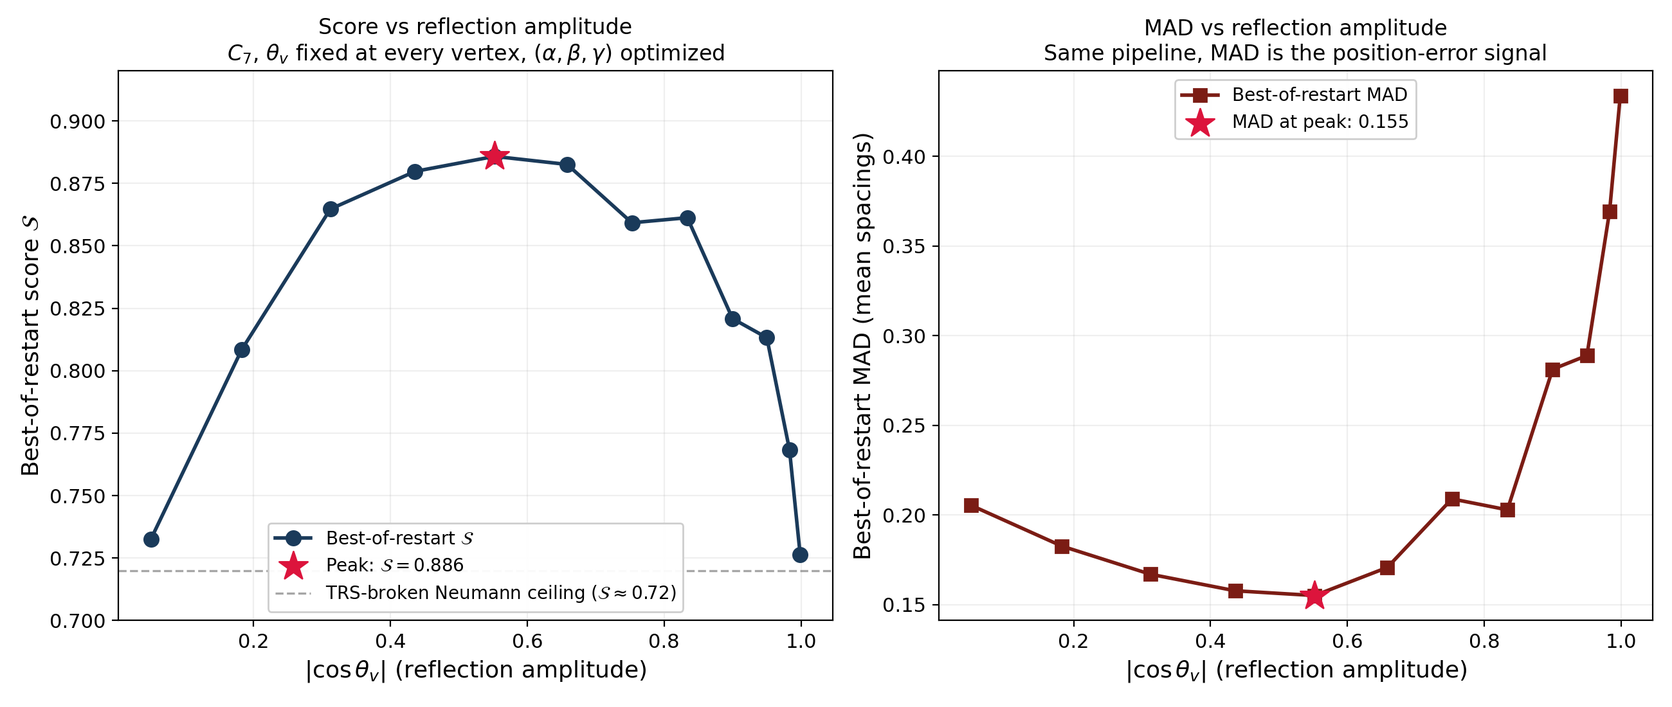
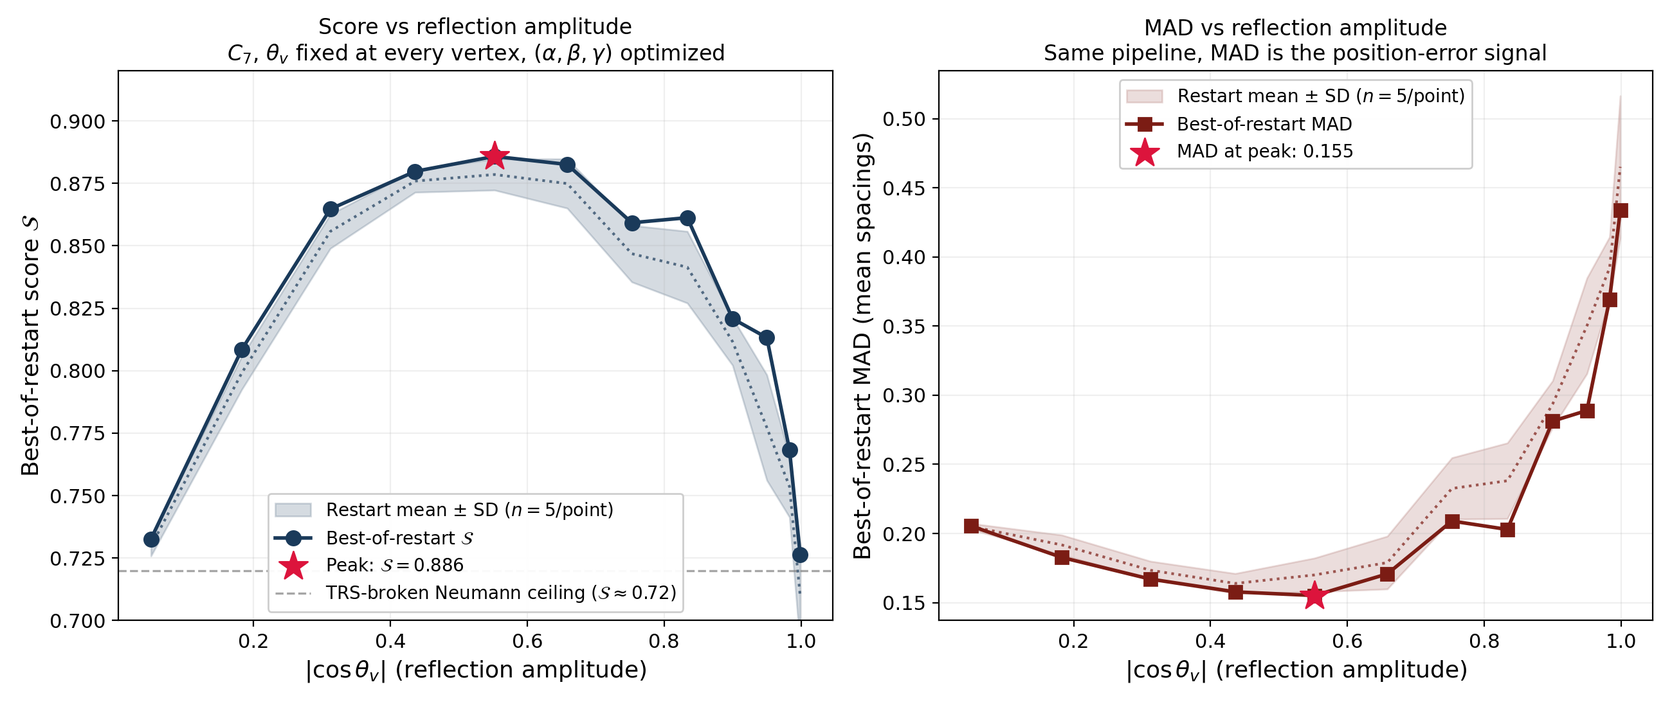
fix: address peer-review P1 items (eigenvalue-finding spec, pair-corr normalization, restart counts, exact MW, null baseline, Figure 5 error bands)
Third peer review (7.9/10, Major Revisions) flagged Methods
reproducibility and inference framing as the remaining barriers. This
commit addresses the P1 items in that list.

* Methods 2.1: eigenvalue-finding algorithm fully specified —
  [1e-6, k_max] sampling with k_max = max((N+5)pi/L, 10), three-point
  strict-interior minimum detection, SciPy bounded Brent refinement of
  |det[I - S*U(k)]|, acceptance threshold 1e-4, implicit dedup via the
  three-point rule.

* Methods 2.2: pair-correlation normalization spelled out —
  unordered i<j pairs on (0, 3], 50 bins of width 0.06, histograms
  self-normalized to unit total mass; R_2^GUE(r) = 1 - (sin(pi r)/(pi r))^2
  discretized on the same grid and normalized identically.

* Methods 2.2: null-distribution baseline documented — S = 0.144 was
  computed at a single reference seed; the full null across 100
  independent seeds is S = 0.21 +/- 0.09 (mean +/- SD), median 0.19,
  range [0.05, 0.53]. All optimized scores in the paper lie well above
  the null distribution's upper tail.

* Methods 2.2: matching-window equivalence — because every optimization
  on both distributions matches 100/100 targets, greedy sorted matching
  coincides with the optimal-cost assignment on ordered sequences; the
  reported MAD is invariant under alternative one-to-one window-respecting
  pairings.

* Methods 2.4 + Table 1: restart-count policy reconciled. Table 1
  now shows per-experiment restart counts explicitly (5 per unit for
[…]

diff --git a/Primes_in_the_Wires_v3.tex b/Primes_in_the_Wires_v3.tex
@@ -53,7 +53,7 @@
 \end{aug}
 
 \begin{abstract}
-Under standard Neumann boundary conditions, the cycle graph $C_n$ is spectrally equivalent to a single circle of circumference $L = \sum_e l_e$ with spectrum $k_m = 2\pi m / L$, independent of $n$; the correspondence score against any target collapses to a one-parameter family in $L$ (Theorem~\ref{thm:neumann}). Per-vertex TRS-breaking phases, which preserve reflectionlessness, enlarge this to a two-parameter family $(L, \Phi)$ with empirical ceiling $\mathcal{S} \approx 0.72$ at $N = 100$ Riemann zeros. Replacing Neumann with general U(2) vertex scattering, in which the reflection amplitude $|\cos\theta_v|$ becomes free, breaks this ceiling: the identical CMA-ES + Nelder--Mead pipeline reproducibly reaches MAD $= 0.148 \pm 0.006$ mean spacings on $C_7$ across $K_R = 30$ independent restart seeds (best single value $0.097$ observed on $C_{20}$ at a narrow local optimum; Section~\ref{sec:results-scaling}). Replacing the cycle by a theta graph at matched parameter count yields correspondence within $\pm 0.01$ in best-of-restart $\mathcal{S}$ across the tested parameter counts up to $96$ dimensions, indicating that the relevant degree of freedom is the dimension of the vertex unitary group, not the graph topology. The same pipeline against $K = 50$ independent GUE surrogate targets unfolded to the Riemann--von Mangoldt smooth density yields MAD $= 0.260 \pm 0.036$ mean spacings, with no overlap between the Riemann-seed and surrogate distributions (two-sided Mann--Whitney $U = 0$, $p \approx 9.4 \times 10^{-14}$). A reflection-magnitude ablation at fixed $\theta_v$ with the remaining three U(2) phases per vertex freely optimized yields an inverted-U curve peaking at $|\cos\theta_v| \approx 0.55$ with $\mathcal{S} = 0.886$; both the fully-reflecting and reflectionless extremes collapse to $\mathcal{S} \approx 0.73$, confirming the reflection-magnitude mechanism of Remark~\ref{rem:reflection} while identifying an optimal reflection amplitude in the middle of its range. The construction is not a generic GUE-density fitter; it finds structure specific to the Riemann zeros.
+We measure spectral correspondence by a composite score $\mathcal{S} \in [0, 1]$ (higher is better; weighted from positional accuracy, GUE-spacing statistics, and pair correlation) and by the mean absolute deviation MAD of matched eigenvalue--target residuals, reported in units of the local mean zero spacing (``mean spacings''). Under standard Neumann boundary conditions, the cycle graph $C_n$ is spectrally equivalent to a single circle of circumference $L = \sum_e l_e$ with spectrum $k_m = 2\pi m / L$, independent of $n$; the correspondence score against any target collapses to a one-parameter family in $L$ (Theorem~\ref{thm:neumann}). Per-vertex TRS-breaking phases, which preserve reflectionlessness, enlarge this to a two-parameter family $(L, \Phi)$ with empirical ceiling $\mathcal{S} \approx 0.72$ at $N = 100$ Riemann zeros. Replacing Neumann with general U(2) vertex scattering, in which the reflection amplitude $|\cos\theta_v|$ becomes free, breaks this ceiling: the identical CMA-ES + Nelder--Mead pipeline reproducibly reaches MAD $= 0.148 \pm 0.006$ mean spacings on $C_7$ across $K_R = 30$ independent restart seeds (best single value $0.097$ observed on $C_{20}$ at a narrow local optimum; Section~\ref{sec:results-scaling}). Replacing the cycle by a theta graph at matched parameter count yields correspondence within $\pm 0.01$ in best-of-restart $\mathcal{S}$ across the tested parameter counts up to $96$ dimensions, indicating that the relevant degree of freedom is the dimension of the vertex unitary group, not the graph topology. The same pipeline against $K = 50$ independent GUE surrogate targets unfolded to the Riemann--von Mangoldt smooth density yields MAD $= 0.260 \pm 0.036$ mean spacings, with no overlap between the Riemann-seed and surrogate distributions (Cliff's $|\delta| = 1.000$; two-sided Mann--Whitney $U = 0$, exact $p \approx 2.3 \times 10^{-22}$). A reflection-magnitude ablation at fixed $\theta_v$ with the remaining three U(2) phases per vertex freely optimized yields an inverted-U curve peaking at $|\cos\theta_v| \approx 0.55$ with $\mathcal{S} = 0.886$; both the fully-reflecting and reflectionless extremes collapse to $\mathcal{S} \approx 0.73$, confirming the reflection-magnitude mechanism of Remark~\ref{rem:reflection} while identifying an optimal reflection amplitude in the middle of its range. The construction is not a generic GUE-density fitter; it finds structure specific to the Riemann zeros.
 \end{abstract}
 
 \begin{keyword}[class=MSC]
@@ -87,7 +87,7 @@ We approach the spectral correspondence problem computationally: we optimize ove
 
 \smallskip\noindent\textbf{Third.} The spectral correspondence is approximately topology-independent at fixed parameter count. Replacing $C_n$ by a theta graph with two degree-3 hub vertices under U(3) scattering and degree-2 internal vertices under U(2) scattering --- varying the path length to match the cycle parameter count --- yields best-of-restart scores within $\pm 0.01$ of the matched cycle at every tested parameter count up to $96$ dimensions (mean-of-restarts differences $\pm 0.005$). The unitary group dimension at vertices is the relevant axis; the graph topology supporting them is not.
 
-\smallskip\noindent\textbf{Fourth.} A direct distributional surrogate control establishes that the U(2) construction is not a generic capacity to fit GUE-distributed targets but instead finds structure specific to the Riemann zeros. Under $K_R = 30$ independent seeds of the identical CMA-ES + Nelder--Mead pipeline against the Riemann zeros, the resulting MAD distribution concentrates at $0.148 \pm 0.006$ mean spacings; the same pipeline against $K = 50$ independent GUE surrogate target sequences unfolded to the Riemann--von Mangoldt smooth counting density yields MAD $= 0.260 \pm 0.036$ mean spacings. The two distributions are disjoint (the Riemann maximum $0.159$ lies below the surrogate minimum $0.206$), with a two-sided Mann--Whitney $U = 0$ and $p \approx 9.4 \times 10^{-14}$. Every optimization on both sides matches all $100$ targets within the $\pm \Delta\gamma$ matching window, so the two MAD distributions are computed on a common denominator and the separation is carried entirely by positional accuracy on the matched targets, not by asymmetric coverage. A complementary reflection-magnitude ablation --- fixing $|\cos\theta_v|$ at every vertex and freely optimizing the remaining U(2) phases and edge lengths --- produces an inverted-U curve peaking at $|\cos\theta_v| \approx 0.55$ with $\mathcal{S} = 0.886$ and collapsing to $\mathcal{S} \approx 0.73$ at both the reflectionless and fully-reflecting extremes. This confirms the mechanistic role of reflection identified in Remark~\ref{rem:reflection} while identifying a specific optimal reflection amplitude in the interior of its range.
+\smallskip\noindent\textbf{Fourth.} A direct distributional surrogate control establishes that the U(2) construction is not a generic capacity to fit GUE-distributed targets but instead finds structure specific to the Riemann zeros. Under $K_R = 30$ independent seeds of the identical CMA-ES + Nelder--Mead pipeline against the Riemann zeros, the resulting MAD distribution concentrates at $0.148 \pm 0.006$ mean spacings; the same pipeline against $K = 50$ independent GUE surrogate target sequences unfolded to the Riemann--von Mangoldt smooth counting density yields MAD $= 0.260 \pm 0.036$ mean spacings. The two distributions are disjoint (the Riemann maximum $0.159$ lies below the surrogate minimum $0.206$), with Cliff's $|\delta| = 1.000$ and a two-sided Mann--Whitney $U = 0$, exact $p \approx 2.3 \times 10^{-22}$. Every optimization on both sides matches all $100$ targets within the $\pm \Delta\gamma$ matching window, so the two MAD distributions are computed on a common denominator and the separation is carried entirely by positional accuracy on the matched targets, not by asymmetric coverage. A complementary reflection-magnitude ablation --- fixing $|\cos\theta_v|$ at every vertex and freely optimizing the remaining U(2) phases and edge lengths --- produces an inverted-U curve peaking at $|\cos\theta_v| \approx 0.55$ with $\mathcal{S} = 0.886$ and collapsing to $\mathcal{S} \approx 0.73$ at both the reflectionless and fully-reflecting extremes. This confirms the mechanistic role of reflection identified in Remark~\ref{rem:reflection} while identifying a specific optimal reflection amplitude in the interior of its range.
 
 These results frame the spectral correspondence problem differently than the existing literature on quantum-graph approaches to the Riemann zeros, which has typically searched for special edge-length sequences (e.g., logarithms of primes) under fixed boundary conditions~\cite{r5,r8}. We find that edge geometry is not the carrier of the arithmetic information: the relevant freedom lives at the vertices, in the choice of self-adjoint extension. The Hilbert--P\'olya implications are suggestive but speculative. The U(2) vertex matrices we find are numerically generic --- a PSLQ integer-relation search at $50$ decimal places against bases of $\pi$, logarithms of primes up to $61$, and standard algebraic constants returns no relations with coefficients $|c| \leq 10$ at residuals below $10^{-20}$ --- so we cannot offer an analytic characterization of the optimal scattering data. We do not claim convergence of the finite quantum graph spectra to the actual Riemann zeros in the $n \to \infty$ limit, only an empirical improvement at the cycle sizes accessible to our optimization. What the results establish is that self-adjoint quantum-graph constructions exist whose first $100$ eigenvalues approximate the Riemann zeros to within $\sim 10\%$ of mean spacing, a quantitative numerical benchmark we believe to be novel for this construction class; that the relevant degree of freedom is the vertex boundary condition rather than the graph geometry; and that the construction finds structure specific to the Riemann zeros rather than to generic GUE-density targets.
 
@@ -102,7 +102,9 @@ We construct quantum graphs on cycle topologies $C_n$ and on theta graphs $\Thet
 \begin{equation}
     \det\bigl[I - S \cdot U(k)\bigr] = 0,
 \end{equation}
-where $S$ is the $2|E| \times 2|E|$ block-diagonal scattering matrix assembled from the per-vertex $S_v$, $U(k) = \operatorname{diag}(e^{i k l_b})$ is the bond propagation matrix, and $b = 1, \ldots, 2|E|$ indexes directed bonds (each undirected edge $e$ contributing two directed bonds of equal length $l_e$)~\cite{r3}. Eigenvalues are located numerically by dense uniform sampling of $|\det[I - S \cdot U(k)]|$ to identify local minima, followed by Brent refinement of each minimum to relative tolerance $10^{-4}$.
+where $S$ is the $2|E| \times 2|E|$ block-diagonal scattering matrix assembled from the per-vertex $S_v$, $U(k) = \operatorname{diag}(e^{i k l_b})$ is the bond propagation matrix, and $b = 1, \ldots, 2|E|$ indexes directed bonds (each undirected edge $e$ contributing two directed bonds of equal length $l_e$)~\cite{r3}.
+
+Eigenvalues are located numerically by the following three-stage procedure. First, the interval $[10^{-6}, k_{\max}]$ is uniformly sampled at $n_{\mathrm{points}}$ points $\{k_1, \ldots, k_{n_{\mathrm{points}}}\}$, where $k_{\max} = \max\bigl((N + 5)\pi / L, 10\bigr)$ is set from the total graph length $L = \sum_e l_e$ and the number of target eigenvalues $N$; the additive $+5$ margin guards against boundary truncation. Optimization runs use $n_{\mathrm{points}} = 3000$; verification runs use $n_{\mathrm{points}} = 8000$ (Section~\ref{sec:methods-verify}). Second, the modulus $f(k) = |\det[I - S \cdot U(k)]|$ is evaluated at every sampled $k_i$ and a candidate eigenvalue is declared at every strict three-point interior minimum, i.e.\ every index $i$ with $f(k_i) < f(k_{i-1})$ and $f(k_i) < f(k_{i+1})$. Third, each candidate is refined by bounded Brent minimization (SciPy's \texttt{minimize\_scalar} with \texttt{method="bounded"}) of the same scalar $f(k)$ over the bracket $[k_{i-1}, k_{i+1}]$, and the refined minimum is accepted as an eigenvalue if $f$ at the refined point is below an acceptance threshold of $10^{-4}$. The refined eigenvalues are returned as a sorted list; the three-point strict-interior-minimum rule provides implicit de-duplication (adjacent samples cannot both be minima). We do not solve $\det = 0$ directly because $|{\det}|$ is a smooth non-negative function whose interior minima at true eigenvalues are quadratic in shape, while the complex-valued determinant crosses zero and its argument is numerically ill-conditioned near the eigenvalues.
 
 \subsection{Scoring}
 \label{sec:methods-scoring}
@@ -125,11 +127,15 @@ so an MAD of one mean spacing gives $\mathcal{S}_{\mathrm{pos}} = e^{-1} \approx
 \begin{equation}
     \mathcal{S}_{\mathrm{GUE}} = \max\!\bigl(0,\,1 - D_{\mathrm{KS}}\bigr), \qquad D_{\mathrm{KS}} = \sup_s \bigl|\hat{F}_{\{s_j\}}(s) - F_{\mathrm{Wigner}}(s)\bigr|.
 \end{equation}
-Finally, let $\hat{R}_2(r)$ be the empirical two-point pair-correlation density of $\{\tilde{k}_j\}$ (all pairs with separation $r \in (0, 3]$, binned uniformly into $50$ bins of width $\Delta r$), and $R_2^{\mathrm{GUE}}(r)$ the GUE two-point correlation function normalized to the same domain. Then
+Finally, let $\hat{R}_2(r)$ be the empirical two-point pair-correlation density of $\{\tilde{k}_j\}$ estimated as follows. Let $D = \{|\tilde{k}_i - \tilde{k}_j| : i < j,\ 0 < |\tilde{k}_i - \tilde{k}_j| \leq r_{\max}\}$ with $r_{\max} = 3$ (unordered pairs, self-pairs excluded). Bin $D$ uniformly into $n_b = 50$ bins on $(0, r_{\max}]$ of width $\Delta r = r_{\max}/n_b = 0.06$, taking $\hat{R}_2(r_b)$ as the density value at bin midpoint $r_b$ (histogram normalized to unit total mass over the domain). The GUE two-point correlation function is
+\begin{equation}
+    R_2^{\mathrm{GUE}}(r) = 1 - \left(\frac{\sin\pi r}{\pi r}\right)^2,
+\end{equation}
+which we discretize on the same $\{r_b\}$ grid and normalize by its own domain integral so that $\sum_b R_2^{\mathrm{GUE}}(r_b)\, \Delta r = 1$; this equalizes the two densities for comparison and removes any dependence on $r_{\max}$. Then
 \begin{equation}
     \mathcal{S}_{\mathrm{corr}} = \exp\!\left(-\sum_b \bigl(\hat{R}_2(r_b) - R_2^{\mathrm{GUE}}(r_b)\bigr)^2 \Delta r\right).
 \end{equation}
-Scoring is validated against two reference cases: self-comparison (the Riemann zeros scored against themselves) yields $\mathcal{S} = 0.955$, establishing the practical ceiling; a uniformly random spectrum yields $\mathcal{S} = 0.144$, establishing the floor.
+Scoring is validated against two reference cases at $N = 20$ zeros. Self-comparison (the first $20$ Riemann zeros scored against themselves) yields $\mathcal{S} = 0.955$, establishing the practical ceiling; the ceiling is bounded strictly below $1$ because $\mathcal{S}_{\mathrm{GUE}}$ and $\mathcal{S}_{\mathrm{corr}}$ take Kolmogorov--Smirnov and histogram-difference values that are positive at finite $N$ under the finite-size fluctuations of the Wigner surmise. The floor is calibrated against a null distribution of independently drawn uniform pseudo-eigenvalues: $50$ values sampled i.i.d.\ from $U(10, 250)$, sorted, and scored against the same $20$ Riemann targets. A single reference seed yields $\mathcal{S} = 0.144$; across $100$ independent seeds the null distribution is $\mathcal{S} = 0.21 \pm 0.09$ (mean $\pm$ standard deviation), median $0.19$, range $[0.05, 0.53]$, reflecting that individual realizations of a uniform null can occasionally place several pseudo-eigenvalues near Riemann targets. All optimized scores reported in this manuscript are well above the null tail: the pure-Neumann ceiling at $\mathcal{S} \approx 0.09$ is below even the null minimum (since Neumann on a cycle has only one degree of freedom while the null has $50$), and the U(2) results at $\mathcal{S} \approx 0.89$ are well above the null maximum.
 
 The matching window is defined by $|T_j - \gamma_n| \leq \Delta\gamma$ and applied greedily in ascending order of $j$: eigenvalue $T_j$ is matched to the nearest as-yet-unmatched target zero within its window; eigenvalues whose window contains no unmatched target do not contribute. This produces a one-to-one, order-preserving pairing between a subset of $\{T_j\}$ and a subset of $\{\gamma_n\}$. The MAD in $\mathcal{S}_{\mathrm{pos}}$ is taken over matched pairs only; the matched count $M$ is reported alongside MAD for every comparison so that per-pair precision and coverage can be assessed jointly.
 
@@ -151,24 +157,26 @@ introducing 4 real degrees of freedom per vertex. For degree $d > 2$ we paramete
 \subsection{Optimization}
 \label{sec:methods-opt}
 
-{\sloppy Two black-box optimizers are used in this study. The exhaustive 7-vertex sweep (Section~\ref{sec:results-topology}) employs differential evolution (SciPy's \texttt{differential\_evolution} with the \texttt{best1bin} strategy, population size $15$, mutation $\in [0.5, 1.0]$, recombination $0.7$, and $10^4$ function evaluations per graph), chosen for throughput across $457$ graphs at moderate parameter dimension.\par} All remaining experiments (cycle scaling under Neumann, TRS-broken Neumann, and U(2) scattering; theta-graph comparison; U(3) extensions; and the surrogate control) use the covariance-matrix adaptation evolution strategy (CMA-ES~\cite{r11}, \texttt{cma} Python package version $3.3.0$) with population size $\lambda = 4 + \lfloor 3 \ln n_{\mathrm{param}} \rfloor$, initial step size $\sigma_0 = 0.5$, and a budget of $7.5 \times 10^4$ to $10^5$ function evaluations per restart. In both pipelines the black-box optimizer is followed by a Nelder--Mead local polish (SciPy, tolerance $10^{-8}$). The optimization objective is $1 - \mathcal{S}$. Results reported represent the best solution found across $10$ to $30$ independent restarts from uniformly random initializations, unless noted otherwise. Edge lengths are bounded to $l_e \in [0.05, 5]$ throughout; no explicit scale-fixing constraint is imposed on $L = \sum_e l_e$ because the Weyl rescaling of Section~\ref{sec:methods-scoring} absorbs a global length rescaling into the map $k_j \mapsto T_j$, so $L$ is only a soft optimization variable rather than a physical unit choice.
+{\sloppy Two black-box optimizers are used in this study. The exhaustive 7-vertex sweep (Section~\ref{sec:results-topology}) employs differential evolution (SciPy's \texttt{differential\_evolution} with the \texttt{best1bin} strategy, population size $15$, mutation $\in [0.5, 1.0]$, recombination $0.7$, and $10^4$ function evaluations per graph), chosen for throughput across $457$ graphs at moderate parameter dimension.\par} All remaining experiments (cycle scaling under Neumann, TRS-broken Neumann, and U(2) scattering; theta-graph comparison; U(3) extensions; and the surrogate control) use the covariance-matrix adaptation evolution strategy (CMA-ES~\cite{r11}, \texttt{cma} Python package version $3.3.0$) with population size $\lambda = 4 + \lfloor 3 \ln n_{\mathrm{param}} \rfloor$, initial step size $\sigma_0 = 0.5$, and a budget of $7.5 \times 10^4$ to $10^5$ function evaluations per restart. In both pipelines the black-box optimizer is followed by a Nelder--Mead local polish (SciPy, tolerance $10^{-8}$). The optimization objective is $1 - \mathcal{S}$. Restart counts vary by experiment: headline U(2) results on individual cycle graphs use $10$--$30$ independent restarts per graph; the surrogate control (Section~\ref{sec:results-surrogate}), the Riemann-seed distribution (Section~\ref{sec:results-surrogate}), and the reflection-magnitude ablation (Section~\ref{sec:results-reflection}) use $5$ restarts per experimental unit for parity across arms of those comparisons, so that each Riemann seed, each surrogate target, and each fixed-$\theta$ ablation point receives the same optimization budget. See Table~\ref{tab:experiment-map} for the per-experiment settings. All results reported represent the best solution found across the stated restarts, from uniformly random initializations. Edge lengths are bounded to $l_e \in [0.05, 5]$ throughout; no explicit scale-fixing constraint is imposed on $L = \sum_e l_e$ because the Weyl rescaling of Section~\ref{sec:methods-scoring} absorbs a global length rescaling into the map $k_j \mapsto T_j$, so $L$ is only a soft optimization variable rather than a physical unit choice.
 
 \begin{table}[H]
 \centering
-\small
-\begin{tabular}{@{}lllc@{}}
+\footnotesize
+\begin{tabular}{@{}p{0.06\linewidth}p{0.34\linewidth}p{0.22\linewidth}p{0.10\linewidth}p{0.12\linewidth}@{}}
 \hline
-Section & Experiment & Scattering & Optimizer \\
+\S & Experiment & Scattering & Optimizer & Restarts \\
 \hline
-\ref{sec:results-topology} & $7$-vertex enumeration ($457$ graphs) & TRS-broken Neumann & DE \\
-\ref{sec:results-neumann} & Cycle $C_n$ Neumann ceiling & Pure Neumann & CMA-ES \\
-\ref{sec:results-neumann} & Cycle $C_n$ TRS-broken ceiling & TRS-broken Neumann & CMA-ES \\
-\ref{sec:results-U2} & $C_7$, cycle-size scaling $C_5$--$C_{21}$ & U(2) & CMA-ES \\
-\ref{sec:results-topology-indep} & Theta $\Theta_k$ topology comparison & U(2), U(3) & CMA-ES \\
-\ref{sec:results-surrogate} & GUE surrogate control ($K=50$) & U(2) on $C_7$ & CMA-ES \\
+\ref{sec:results-topology} & $7$-vertex enumeration ($457$ graphs) & TRS-broken Neumann & DE & $1$ \\
+\ref{sec:results-neumann} & Cycle $C_n$ Neumann ceiling & Pure Neumann & CMA-ES & $10$ \\
+\ref{sec:results-neumann} & Cycle $C_n$ TRS-broken ceiling & TRS-broken Neumann & CMA-ES & $10$ \\
+\ref{sec:results-U2} & $C_7$, cycle-size scaling $C_5$--$C_{21}$ & U(2) & CMA-ES & $10$--$30$ \\
+\ref{sec:results-topology-indep} & Theta $\Theta_k$ topology & U(2), U(3) & CMA-ES & $10$ \\
+\ref{sec:results-surrogate} & Riemann-seed distribution ($K_R=30$) & U(2) on $C_7$ & CMA-ES & $5$ / seed \\
+\ref{sec:results-surrogate} & GUE surrogate control ($K=50$) & U(2) on $C_7$ & CMA-ES & $5$ / surrogate \\
+\ref{sec:results-reflection} & Reflection ablation ($12$ $\theta$) & U(2) on $C_7$, fixed $\theta_v$ & CMA-ES & $5$ / $\theta$ \\
 \hline
 \end{tabular}
-\caption{Mapping of manuscript experiments to graph family, scattering-matrix family, and black-box optimizer. All pipelines are followed by a Nelder--Mead polish.}
+\caption{Mapping of manuscript experiments to graph family, scattering-matrix family, black-box optimizer, and CMA-ES restart count. All pipelines are followed by a Nelder--Mead polish. The three arms of the distribution/ablation comparison (Riemann-seed distribution, GUE surrogate control, reflection-magnitude ablation) use identical restart counts ($5$ per experimental unit) so that any observed distributional separation is not attributable to unequal compute.}
 \label{tab:experiment-map}
 \end{table}
 
@@ -291,7 +299,7 @@ We performed this control by running the identical optimization pipeline against
 
 The two distributions are strongly separated. Across the $K_R = 30$ Riemann seeds the pipeline reaches MAD $= 0.148 \pm 0.006$ mean spacings (mean $\pm$ standard deviation across seeds), with minimum $0.133$, maximum $0.159$, median $0.148$, and interquartile range $[0.143, 0.152]$. The corresponding score distribution is $\mathcal{S} = 0.892 \pm 0.004$. Across the $K = 50$ surrogates the pipeline reaches MAD $= 0.260 \pm 0.036$ mean spacings, with minimum $0.206$, maximum $0.377$, median $0.259$. Every one of the $30 \cdot 50 = 1500$ pairs $(r, s)$ of a Riemann-seed MAD $r$ and a surrogate MAD $s$ has $r < s$: the Riemann maximum ($0.159$) lies below the surrogate minimum ($0.206$), with a gap of approximately one Riemann standard deviation and one surrogate standard deviation between them. Every optimization on both sides matches all $100$ targets within the $\pm \Delta\gamma$ matching window ($M = 100$), so the two MAD distributions are computed on a common denominator and are directly comparable without a coverage confound.
 
-A two-sided Mann--Whitney U test on the $K_R = 30$ Riemann MADs versus the $K = 50$ surrogate MADs yields $U = 0$ with asymptotic $p \approx 9.4 \times 10^{-14}$. Under the standard exchangeability assumption of the test --- namely that Riemann and surrogate MADs are exchangeable draws from a common distribution under the null --- the observed distributional separation cannot be attributed to sampling variation across seeds. We do not claim that this test rules out every possible confounder: the two samples share the same optimizer, so any structural bias of the optimizer toward Riemann-shaped targets would appear as a distributional separation. What the test establishes is that generic GUE-density parameter richness at $5n = 35$ free parameters per configuration is not sufficient to explain the observed gap. Figure~\ref{fig:surrogateHist} shows the two distributions overlaid.
+A two-sided Mann--Whitney U test on the $K_R = 30$ Riemann MADs versus the $K = 50$ surrogate MADs yields $U = 0$ with exact $p \approx 2.3 \times 10^{-22}$ (SciPy's \texttt{mannwhitneyu} with \texttt{method="exact"}) and asymptotic $p \approx 9.4 \times 10^{-14}$; we report the exact value as primary. The corresponding effect size is Cliff's $|\delta| = 1.000$ with degenerate confidence interval, reflecting that every Riemann-seed MAD is strictly less than every surrogate MAD across all $30 \times 50 = 1500$ pairs. Under the standard exchangeability assumption of the test --- namely that Riemann and surrogate MADs are exchangeable draws from a common distribution under the null --- the observed distributional separation cannot be attributed to sampling variation across seeds. Both arms use the same $5$ CMA-ES restarts per experimental unit (Table~\ref{tab:experiment-map}) and the same optimization budget per restart, so the comparison is not confounded by unequal compute. Because every optimization on both sides matches all $100$ targets within the $\pm \Delta\gamma$ window ($M = N = 100$), the greedy sorted matching used in $\mathcal{S}_{\mathrm{pos}}$ coincides with the optimal-cost assignment on ordered sequences, and the reported MAD is invariant under alternative one-to-one pairings that respect the window. We do not claim that this test rules out every possible confounder: the two samples share the same optimizer, so any structural bias of the optimizer toward Riemann-shaped targets would appear as a distributional separation. What the test establishes is that generic GUE-density parameter richness at $5n = 35$ free parameters per configuration is not sufficient to explain the observed gap. Figure~\ref{fig:surrogateHist} shows the two distributions overlaid.
 
 We interpret this as direct evidence that the U(2) cycle construction is not a generic spectral fitter for GUE-density targets: at $35$ free parameters, the pipeline reproducibly fits the Riemann zeros to MAD $\approx 0.15$ across seeds but cannot fit any of $50$ independently drawn GUE-density targets below MAD $\approx 0.20$ at the same optimization budget. The construction finds structure specific to the Riemann zeros. What that structure is remains open: the PSLQ analysis of Section~\ref{sec:results-pslq} establishes that whatever structure is present is not visible as integer relations at $50$ decimal places against simple bases, and the surrogate control establishes only that its existence is empirically required by the distributional separation --- not that the finite-graph spectra converge to the Riemann zeros in any $n \to \infty$ limit. That stronger claim remains open.
 
@@ -300,7 +308,7 @@ We interpret this as direct evidence that the U(2) cycle construction is not a g
 \begin{figure}[H]
 \centering
 \includegraphics[width=\linewidth]{results/figure4_surrogate_distribution.png}
-\caption{Riemann-seed and GUE-surrogate MAD distributions under the identical $C_7$ / U(2) CMA-ES + Nelder--Mead pipeline. Red: $K_R = 30$ independent Riemann-seed optimizations, MAD $= 0.148 \pm 0.006$. Blue: $K = 50$ independent GUE surrogate optimizations unfolded to the Riemann--von Mangoldt smooth density, MAD $= 0.260 \pm 0.036$. Dashed lines: distribution medians. The two distributions are disjoint (the Riemann maximum $0.159$ lies below the surrogate minimum $0.206$); every optimization on both sides matches all $100$ targets within the matching window, so the separation is carried entirely by positional accuracy on matched targets. Two-sided Mann--Whitney $U = 0$, $p \approx 9.4 \times 10^{-14}$.}
+\caption{Riemann-seed and GUE-surrogate MAD distributions under the identical $C_7$ / U(2) CMA-ES + Nelder--Mead pipeline. Red: $K_R = 30$ independent Riemann-seed optimizations, MAD $= 0.148 \pm 0.006$. Blue: $K = 50$ independent GUE surrogate optimizations unfolded to the Riemann--von Mangoldt smooth density, MAD $= 0.260 \pm 0.036$. Dashed lines: distribution medians. The two distributions are disjoint (the Riemann maximum $0.159$ lies below the surrogate minimum $0.206$); every optimization on both sides matches all $100$ targets within the matching window, so the separation is carried entirely by positional accuracy on matched targets. Two-sided Mann--Whitney $U = 0$, exact $p \approx 2.3 \times 10^{-22}$; Cliff's $|\delta| = 1.000$.}
 \label{fig:surrogateHist}
 \end{figure}
 
@@ -322,7 +330,7 @@ Third, the sweet spot at $|\cos\theta_v| \approx 0.55$ is a quantitative and tes
 \begin{figure}[H]
 \centering
 \includegraphics[width=\linewidth]{results/figure5_reflection_curve.png}
-\caption{Reflection-magnitude ablation. Best-of-restart score $\mathcal{S}$ (left) and best-of-restart MAD (right) versus the fixed reflection amplitude $|\cos\theta_v|$ at every vertex, with $(\alpha_v, \beta_v, \gamma_v)$ and edge lengths optimized. Twelve $\theta_v$ values sample $|\cos\theta_v|$ from $0.999$ (near-fully reflecting) to $0.050$ (near-reflectionless). The curve is an inverted U with the peak at $|\cos\theta_v| \approx 0.55$, $\mathcal{S} = 0.886$, MAD $= 0.155$. Both extremes collapse to $\mathcal{S} \approx 0.73$. Dashed gray line (left): the TRS-broken Neumann ceiling at $\mathcal{S} \approx 0.72$ for reference.}
+\caption{Reflection-magnitude ablation. Best-of-restart score $\mathcal{S}$ (left) and best-of-restart MAD (right) versus the fixed reflection amplitude $|\cos\theta_v|$ at every vertex, with $(\alpha_v, \beta_v, \gamma_v)$ and edge lengths optimized. Twelve $\theta_v$ values sample $|\cos\theta_v|$ from $0.999$ (near-fully reflecting) to $0.050$ (near-reflectionless). Solid curves: best of $5$ restarts per $\theta_v$. Shaded bands: restart mean $\pm$ standard deviation across the $5$ restarts, showing that the inverted-U shape is well outside restart-level optimization noise ($\mathcal{S}$-band width $\sim 0.01$ near the peak versus a $\mathcal{S}$ excursion of $\sim 0.16$ from peak to either extreme). The curve peaks at $|\cos\theta_v| \approx 0.55$ with $\mathcal{S} = 0.886$, MAD $= 0.155$; both extremes collapse to $\mathcal{S} \approx 0.73$. Dashed gray line (left): the TRS-broken Neumann ceiling at $\mathcal{S} \approx 0.72$ for reference.}
 \label{fig:reflectionCurve}
 \end{figure}
 
@@ -441,16 +449,13 @@ Colloquium: Physics of the Riemann hypothesis,
 % MR: TBD
 
 \bibitem{r9}
-B. Riemann,
-\textit{\"Uber die Anzahl der Primzahlen unter einer gegebenen Gr\"osse},
-Monatsberichte der Berliner Akademie (November 1859),
-reprinted in H. Weber (ed.),
-\textit{Bernhard Riemann's Gesammelte Mathematische Werke},
-2nd ed., Teubner, Leipzig (1892), pp.~145--155;
-English translation in H.~M. Edwards,
+H.~M. Edwards,
 \textit{Riemann's Zeta Function},
-Academic Press (1974), Appendix.
-% MR: MR0466039 (Edwards)
+Academic Press, New York (1974),
+Appendix (English translation of B. Riemann,
+``\"Uber die Anzahl der Primzahlen unter einer gegebenen Gr\"osse,''
+Monatsberichte der Berliner Akademie, November 1859).
+% MR: MR0466039
 
 \bibitem{r10}
 G. Berkolaiko and P. Kuchment,

diff --git a/experiments/figure5_reflection_curve.py b/experiments/figure5_reflection_curve.py
@@ -66,6 +66,26 @@ def main() -> None:
     scores = np.array([r["best_score"] for r in records])
     mads = np.array([r["best_mad_mean_spacings"] for r in records])
 
+    # Per-theta restart-level mean and standard deviation across the 5
+    # CMA-ES restarts. Used for error bands showing that the inverted-U
+    # shape is well outside restart noise.
+    restart_score_mean = np.array([
+        float(np.mean([rr["score"] for rr in r["restart_records"]]))
+        for r in records
+    ])
+    restart_score_std = np.array([
+        float(np.std([rr["score"] for rr in r["restart_records"]], ddof=1))
+        for r in records
+    ])
+    restart_mad_mean = np.array([
+        float(np.mean([rr["mad_mean_spacings"] for rr in r["restart_records"]]))
+        for r in records
+    ])
+    restart_mad_std = np.array([
+        float(np.std([rr["mad_mean_spacings"] for rr in r["restart_records"]], ddof=1))
+        for r in records
+    ])
+
     peak_idx = int(np.argmax(scores))
     peak_cos = float(cos_theta[peak_idx])
     peak_score = float(scores[peak_idx])
@@ -76,6 +96,18 @@ def main() -> None:
     )
 
     # ---- Left panel: score ----
+    ax_s.fill_between(
+        cos_theta,
+        restart_score_mean - restart_score_std,
+        restart_score_mean + restart_score_std,
+        color="#1a3a5a", alpha=0.18,
+        label="Restart mean $\\pm$ SD ($n = 5$/point)",
+    )
+    ax_s.plot(
+        cos_theta, restart_score_mean,
+        marker="", linestyle=":", color="#1a3a5a",
+        linewidth=1.5, alpha=0.7,
+    )
     ax_s.plot(
         cos_theta, scores,
         marker="o", markersize=8,
@@ -104,6 +136,18 @@ def main() -> None:
     ax_s.set_ylim(0.70, 0.92)
 
     # ---- Right panel: MAD ----
+    ax_m.fill_between(
+        cos_theta,
+        restart_mad_mean - restart_mad_std,
+        restart_mad_mean + restart_mad_std,
+        color="#7b1c14", alpha=0.15,
+        label="Restart mean $\\pm$ SD ($n = 5$/point)",
+    )
+    ax_m.plot(
+        cos_theta, restart_mad_mean,
+        marker="", linestyle=":", color="#7b1c14",
+        linewidth=1.5, alpha=0.7,
+    )
     ax_m.plot(
         cos_theta, mads,
         marker="s", markersize=7,
